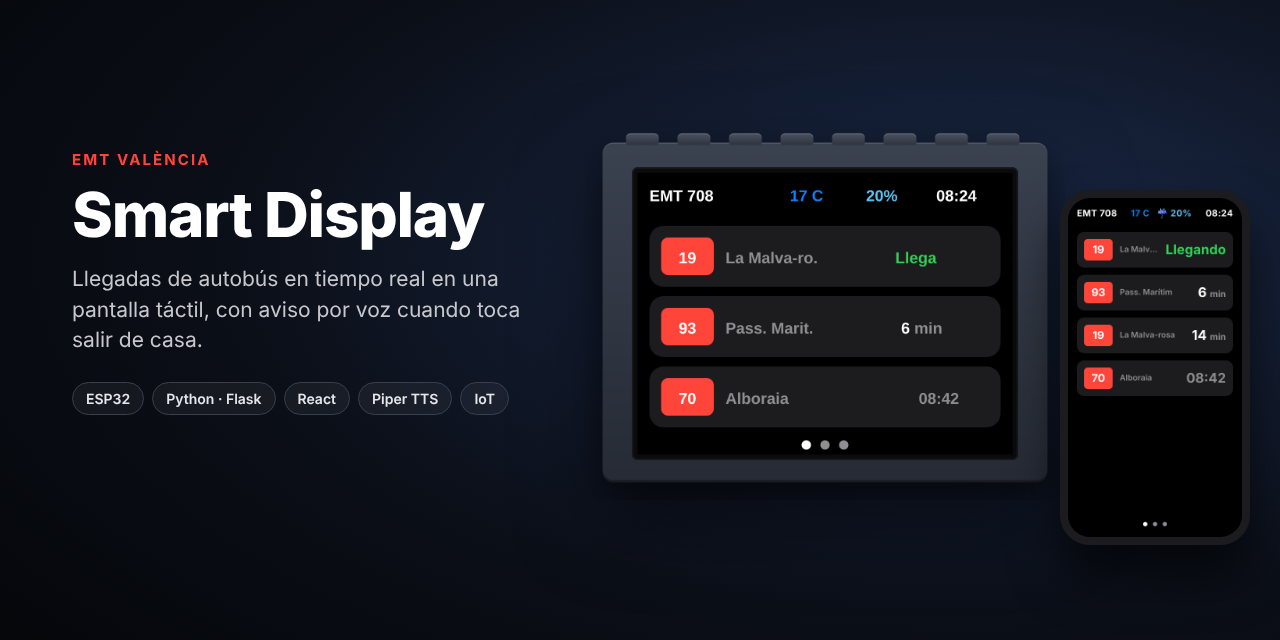
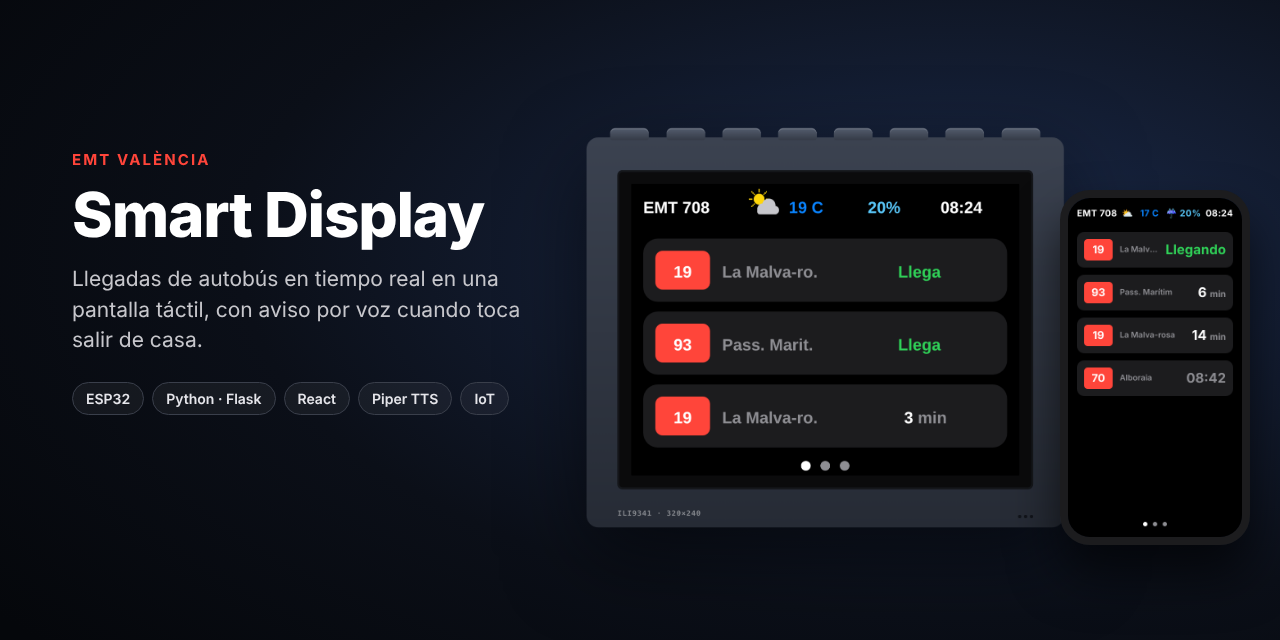
Iconos del tiempo en la pantalla, la web y el gemelo
- Servidor: traduce el código WMO de Open-Meteo a 7 iconos (despejado,
  parcial, nublado, niebla, lluvia, nieve, tormenta) y si es de noche
- Firmware: iconos de 20 px dibujados con primitivas GFX en la cabecera
- Web: emoji equivalente; gemelo: misma geometría que el firmware y
  selector de tiempo en el modo demo
- Imágenes del README capturadas del gemelo

Changed region(s): [[0.4375, 0.1875, 0.8438, 0.8438], [0.875, 0.3125, 0.9375, 0.3438]]

diff --git a/server/simulador/sim.js b/server/simulador/sim.js
@@ -44,6 +44,7 @@
   const C = {
     BG: '#000000', CARD: '#1c1c1e', DIM: '#8e8e93', ACCENT: '#0a84ff', RED: '#ff453a',
     GREEN: '#30d158', ORANGE: '#ff9f0a', RAIN: '#5ac8fa', WHITE: '#ffffff', BLACK: '#000000',
+    SUN: '#ffd60a', CLOUD: '#c7c7cc', CLOUD_DARK: '#8e8e93', MOON: '#e5e5ea',
   };
   const FONT = 'bold 13.5px "Liberation Sans", "Helvetica Neue", Arial, Helvetica, sans-serif';
 
@@ -97,6 +98,58 @@
     }
     width(s) { const g = this.g; g.save(); g.font = FONT; const w = g.measureText(s).width; g.restore(); return w; }
 
+    // drawLine de 1 px como Adafruit GFX (Bresenham)
+    line(x0, y0, x1, y1, c) {
+      const dx = Math.abs(x1 - x0), sx = x0 < x1 ? 1 : -1, dy = -Math.abs(y1 - y0), sy = y0 < y1 ? 1 : -1;
+      let err = dx + dy;
+      for (;;) { this.rect(x0, y0, 1, 1, c); if (x0 === x1 && y0 === y1) break; const e2 = 2 * err; if (e2 >= dy) { err += dy; x0 += sx; } if (e2 <= dx) { err += dx; y0 += sy; } }
+    }
+    tri(x0, y0, x1, y1, x2, y2, c) {
+      const g = this.g, k = this.k; g.fillStyle = c; g.beginPath();
+      g.moveTo(x0 * k, y0 * k); g.lineTo(x1 * k, y1 * k); g.lineTo(x2 * k, y2 * k); g.closePath(); g.fill();
+    }
+    // GFX fillCircle(x, y, r) ocupa de x-r a x+r inclusive
+    disc(x, y, r, c) { this.circle(x + 0.5, y + 0.5, r + 0.5, c); }
+
+    // ---- iconos del tiempo (20x20 en torno a x=110, y=17)
+    sol(x, y, r, c = C.SUN) {
+      this.disc(x, y, r, c);
+      const a = r + 2, b = r + 4, d = Math.round(a * 0.7), e = Math.round(b * 0.7);
+      for (const [p, q] of [[1, 0], [0, 1], [-1, 0], [0, -1]]) this.line(x + p * a, y + q * a, x + p * b, y + q * b, c);
+      for (const [p, q] of [[1, 1], [-1, 1], [-1, -1], [1, -1]]) this.line(x + p * d, y + q * d, x + p * e, y + q * e, c);
+    }
+    luna(x, y, r) { this.disc(x, y, r, C.MOON); this.disc(x + 3, y - 3, r - 1, C.BG); }
+    nube(x, y, c) {
+      this.disc(x - 4, y, 4, c); this.disc(x + 1, y - 3, 5, c); this.disc(x + 6, y + 1, 3, c);
+      this.rrect(x - 8, y, 17, 5, 2, c);
+    }
+    drawIconoClima(icono, noche) {
+      const X = 110, Y = 17;
+      this.rect(98, 2, 26, 31, C.BG);
+      switch (icono) {
+        case 'despejado': noche ? this.luna(X, Y, 6) : this.sol(X, Y, 5); break;
+        case 'parcial': noche ? this.luna(X - 5, Y - 5, 5) : this.sol(X - 5, Y - 5, 4); this.nube(X + 2, Y + 3, C.CLOUD); break;
+        case 'nublado': this.nube(X - 3, Y - 2, C.CLOUD_DARK); this.nube(X + 2, Y + 3, C.CLOUD); break;
+        case 'niebla':
+          for (const [dx, dy] of [[-9, -5], [-6, 0], [-9, 5]]) { this.rect(X + dx, Y + dy, 18, 2, C.CLOUD); }
+          break;
+        case 'lluvia':
+          this.nube(X, Y - 3, C.CLOUD);
+          for (const dx of [-6, -1, 4]) { this.line(X + dx, Y + 5, X + dx - 2, Y + 9, C.RAIN); this.line(X + dx + 1, Y + 5, X + dx - 1, Y + 9, C.RAIN); }
+          break;
+        case 'nieve':
+          this.nube(X, Y - 3, C.CLOUD);
+          for (const [dx, dy] of [[-6, 7], [0, 9], [6, 7]]) this.disc(X + dx, Y + dy, 1, C.WHITE);
+          break;
+        case 'tormenta':
+          this.nube(X, Y - 4, C.CLOUD_DARK);
+          this.tri(X + 1, Y + 1, X - 4, Y + 7, X, Y + 6, C.SUN);
+          this.tri(X, Y + 5, X + 4, Y + 5, X - 2, Y + 12, C.SUN);
+          break;
+        default: break;
+      }
+    }
+
     mensajeCentral(t, c) { this.rect(0, 0, 320, 240, C.BG); this.text(10, 110, t, c); }
     avisoActivo() { return this.avisoHasta !== 0 && Clock.now() < this.avisoHasta; }
 
@@ -108,7 +161,7 @@
         this.text(10, 24, 'EMT ' + this.paradas[this.paradaActual], C.WHITE);
         this.drawClock();
       }
-      this.rect(120, 0, 130, 35, C.BG); this.text(130, 24, 'Sin WiFi', C.RED);
+      this.rect(98, 0, 152, 35, C.BG); this.text(130, 24, 'Sin WiFi', C.RED);
     }
     drawLoading() {
       if (this.avisoActivo()) return;
@@ -129,6 +182,7 @@
       this.text(10, 24, 'EMT ' + parseInt(doc.parada, 10), C.WHITE);
       this.text(130, 24, String(doc.clima ?? ''), C.ACCENT);
       this.text(195, 24, String(doc.prob_lluvia ?? ''), C.RAIN);
+      this.drawIconoClima(String(doc.icono_clima || ''), !!doc.noche);
       if (doc.obsoleto) this.circle(244, 18, 3, C.ORANGE);
     }
     drawBody(doc) {
@@ -331,7 +385,7 @@
     cache: {},               // parada -> {ts, llegadas, avisos}
     rule: { parada: 708, andando: 5, activo: true },
     avisos: [], anunciados: {}, lastRuleCheck: 0,
-    clima: { temp: '17 C', lluvia: '20%' },
+    clima: { temp: '17 C', lluvia: '20%', icono: 'parcial', noche: false },
 
     // Lo que contestaría el SAE: lista de {linea, destino, minutos(texto)}
     sae(parada, now) {
@@ -411,12 +465,12 @@
       try {
         const d = this.obtener(id, now);
         return { code: 200, json: {
-          success: true, parada: id, clima: this.clima.temp, prob_lluvia: this.clima.lluvia,
+          success: true, parada: id, clima: this.clima.temp, prob_lluvia: this.clima.lluvia, icono_clima: this.clima.icono, noche: this.clima.noche,
           llegadas: d.llegadas, avisos: d.avisos, servidor_ts: Math.floor(now / 1000),
           edad_dato_s: Math.floor((now - d.ts) / 1000), obsoleto: d.error !== null,
         } };
       } catch {
-        return { code: 502, json: { success: false, parada: id, error: 'EMT no disponible', clima: this.clima.temp, prob_lluvia: this.clima.lluvia, llegadas: [] } };
+        return { code: 502, json: { success: false, parada: id, error: 'EMT no disponible', clima: this.clima.temp, prob_lluvia: this.clima.lluvia, icono_clima: this.clima.icono, noche: this.clima.noche, llegadas: [] } };
       }
     },
 
@@ -548,7 +602,7 @@
     const p = Demo.rule.parada; const [linea, destino] = RED_DEMO[p]?.[0] || [];
     if (!linea) return;
     Demo.extra.push({ parada: p, linea, destino, t: Clock.now() + (Demo.rule.andando * 60 + 50) * 1000 });
-    Demo.cache = {}; Demo.lastRuleCheck = 0;
+    Demo.cache = {}; Demo.lastRuleCheck = 0; device.lastBusUpdate = 0;
     log(`Escenario: la ${linea} se acerca a la parada ${p}; toca salir de casa`);
   });
   $('scReset').addEventListener('click', () => {
@@ -557,6 +611,16 @@
     for (const b of document.querySelectorAll('[aria-pressed]')) toggleBtn(b, false);
     log('Escenarios restablecidos'); device.lastBusUpdate = 0;
   });
+
+  // Tiempo meteorológico (demo)
+  const TEMPS = { despejado: ['24 C', '0%'], parcial: ['19 C', '20%'], nublado: ['16 C', '40%'], niebla: ['12 C', '10%'], lluvia: ['14 C', '90%'], nieve: ['1 C', '80%'], tormenta: ['21 C', '95%'] };
+  function aplicarClima() {
+    const ic = $('wxIcon').value; Demo.clima = { temp: TEMPS[ic][0], lluvia: TEMPS[ic][1], icono: ic, noche: $('wxNight').checked };
+    Demo.cache = {}; device.lastBusUpdate = 0;
+    log(`Escenario: tiempo ${ic}${Demo.clima.noche ? ' (noche)' : ''}`);
+  }
+  $('wxIcon').addEventListener('change', aplicarClima);
+  $('wxNight').addEventListener('change', aplicarClima);
 
   // Regla de aviso
   $('ruleStop').addEventListener('change', (e) => { Demo.rule.parada = Number(e.target.value); Demo.anunciados = {}; });

diff --git a/frontend/src/DashboardEMT.jsx b/frontend/src/DashboardEMT.jsx
@@ -3,6 +3,17 @@ import React, { useState, useEffect, useRef } from 'react';
 // Vacío = mismo servidor que sirve la web (Flask en la Radxa). Sin CORS ni contenido mixto.
 const API_BASE = '';
 
+// Icono del tiempo que manda el servidor (código WMO de Open-Meteo ya traducido)
+const ICONOS_CLIMA = {
+  despejado: ['☀', '🌙', 'Despejado'],
+  parcial: ['⛅', '☁', 'Intervalos nubosos'],
+  nublado: ['☁', '☁', 'Nublado'],
+  niebla: ['🌫', '🌫', 'Niebla'],
+  lluvia: ['🌧', '🌧', 'Lluvia'],
+  nieve: ['🌨', '🌨', 'Nieve'],
+  tormenta: ['⛈', '⛈', 'Tormenta'],
+};
+
 export default function DashboardEMT() {
   const [paradas, setParadas] = useState([]);
   const [paradaIdx, setParadaIdx] = useState(0);
@@ -86,8 +97,13 @@ export default function DashboardEMT() {
           )}
         </span>
         <div className="flex space-x-4">
+          {ICONOS_CLIMA[datos.icono_clima] && (
+            <span role="img" aria-label={ICONOS_CLIMA[datos.icono_clima][2]} title={ICONOS_CLIMA[datos.icono_clima][2]}>
+              {ICONOS_CLIMA[datos.icono_clima][datos.noche ? 1 : 0]}
+            </span>
+          )}
           <span className="text-[#0a84ff]">{datos.clima}</span>
-          <span className="text-[#5ac8fa]">☔ {datos.prob_lluvia}</span>
+          <span className="text-[#5ac8fa]" title="Probabilidad de lluvia hoy">☔ {datos.prob_lluvia}</span>
         </div>
         <span>{hora}</span>
       </div>

diff --git a/server/simulador/index.html b/server/simulador/index.html
@@ -57,7 +57,7 @@
     </section>
 
     <section>
-      <h2>Tiempo</h2>
+      <h2>Reloj</h2>
       <div class="clockrow">
         <output id="simClock" aria-live="off">--:--:--</output>
         <div class="seg demo-only" role="radiogroup" aria-label="Velocidad">
@@ -83,6 +83,23 @@
         <button class="btn primary" id="scAviso" type="button">Provocar aviso de salida<small>Un bus justo a tiempo</small></button>
         <button class="btn quiet" id="scReset" type="button">Restablecer<small>Todo normal</small></button>
       </div>
+    </section>
+
+    <section class="demo-only">
+      <h2>Tiempo</h2>
+      <div class="fields">
+        <label for="wxIcon">Cielo<select id="wxIcon">
+          <option value="despejado">Despejado</option>
+          <option value="parcial" selected>Intervalos nubosos</option>
+          <option value="nublado">Nublado</option>
+          <option value="niebla">Niebla</option>
+          <option value="lluvia">Lluvia</option>
+          <option value="nieve">Nieve</option>
+          <option value="tormenta">Tormenta</option>
+        </select></label>
+        <label class="check" for="wxNight"><input type="checkbox" id="wxNight">De noche</label>
+      </div>
+      <p class="hint">El servidor traduce el código del tiempo de Open-Meteo a uno de estos siete iconos; de noche, el sol pasa a luna.</p>
     </section>
 
     <section class="demo-only">

diff --git a/server/app.py b/server/app.py
@@ -73,7 +73,7 @@ session.headers.update(HEADERS)
 
 _lock = threading.Lock()
 _cache_paradas = {}   # stop_id -> {"ts": epoch, "llegadas": [...]}
-_cache_clima = {"ts": 0, "data": {"temp": "-- C", "lluvia": "--%"}}
+_cache_clima = {"ts": 0, "data": {"temp": "-- C", "lluvia": "--%", "icono": "", "noche": False}}
 
 
 # --- SAE (EMT) ---------------------------------------------------------------
@@ -239,6 +239,29 @@ def _redondear(x):
     return math.floor(float(x) + 0.5)
 
 
+def icono_wmo(codigo):
+    """Código WMO de Open-Meteo -> icono que dibuja la pantalla."""
+    try:
+        c = int(codigo)
+    except (TypeError, ValueError):
+        return ""
+    if c == 0:
+        return "despejado"
+    if c in (1, 2):
+        return "parcial"
+    if c == 3:
+        return "nublado"
+    if c in (45, 48):
+        return "niebla"
+    if 51 <= c <= 67 or 80 <= c <= 82:
+        return "lluvia"
+    if 71 <= c <= 77 or c in (85, 86):
+        return "nieve"
+    if c in (95, 96, 99):
+        return "tormenta"
+    return ""
+
+
 def obtener_clima():
     ahora = time.time()
     if ahora - _cache_clima["ts"] < WEATHER_CACHE_TTL:
@@ -248,9 +271,12 @@ def obtener_clima():
     _cache_clima["ts"] = ahora - WEATHER_CACHE_TTL + 60
     try:
         datos = session.get(WEATHER_URL, timeout=5).json()
+        actual = datos["current_weather"]
         data = {
-            "temp": f"{_redondear(datos['current_weather']['temperature'])} C",
+            "temp": f"{_redondear(actual['temperature'])} C",
             "lluvia": f"{int(datos['daily']['precipitation_probability_max'][0])}%",
+            "icono": icono_wmo(actual.get("weathercode")),
+            "noche": actual.get("is_day") == 0,
         }
         _cache_clima.update(ts=ahora, data=data)
     except Exception:
@@ -275,6 +301,8 @@ def get_tiempos_parada(stop_id):
             "error": "EMT no disponible",
             "clima": clima["temp"],
             "prob_lluvia": clima["lluvia"],
+            "icono_clima": clima.get("icono", ""),
+            "noche": clima.get("noche", False),
             "llegadas": [],
         }), 502
 
@@ -284,6 +312,8 @@ def get_tiempos_parada(stop_id):
         "parada": stop_id,
         "clima": clima["temp"],
         "prob_lluvia": clima["lluvia"],
+        "icono_clima": clima.get("icono", ""),   # despejado, parcial, nublado, niebla, lluvia, nieve, tormenta
+        "noche": clima.get("noche", False),
         "llegadas": llegadas,
         "avisos": mensajes,
         "servidor_ts": int(ahora),          # para sincronizar la cuenta atrás

diff --git a/server/tests/test_clima.py b/server/tests/test_clima.py
@@ -1,0 +1,40 @@
+"""Iconos del tiempo a partir de Open-Meteo."""
+import json
+import sys
+from pathlib import Path
+from unittest import mock
+
+sys.path.insert(0, str(Path(__file__).resolve().parents[1]))
+import app  # noqa: E402
+
+FIX = Path(__file__).parent / "fixtures"
+
+
+def test_codigos_wmo():
+    casos = {0: "despejado", 1: "parcial", 2: "parcial", 3: "nublado", 45: "niebla", 48: "niebla",
+             51: "lluvia", 61: "lluvia", 65: "lluvia", 80: "lluvia", 82: "lluvia",
+             71: "nieve", 77: "nieve", 85: "nieve", 95: "tormenta", 99: "tormenta",
+             4: "", None: "", "x": ""}
+    for codigo, icono in casos.items():
+        assert app.icono_wmo(codigo) == icono, codigo
+
+
+def test_respuesta_real_de_open_meteo():
+    """Respuesta real del 31/10/2026 a las 17:00: intervalos nubosos, de día, 18,5 C."""
+    datos = json.loads((FIX / "openmeteo_2026-10-31_1700.json").read_text())
+    r = mock.Mock(); r.json = lambda: datos
+    app._cache_clima["ts"] = 0
+    with mock.patch.object(app.session, "get", return_value=r):
+        clima = app.obtener_clima()
+    assert clima == {"temp": "19 C", "lluvia": "75%", "icono": "parcial", "noche": False}
+
+
+def test_api_incluye_icono():
+    app._cache_paradas.clear()
+    xml = (FIX / "sae_708.xml").read_bytes()
+    r = mock.Mock(content=xml); r.raise_for_status = lambda: None
+    with mock.patch.object(app.session, "get", return_value=r), \
+         mock.patch.object(app, "obtener_clima", return_value={"temp": "8 C", "lluvia": "0%", "icono": "despejado", "noche": True}):
+        app.PARADAS_PERMITIDAS.add(708)
+        j = app.app.test_client().get("/api/parada/708").json
+    assert j["icono_clima"] == "despejado" and j["noche"] is True

diff --git a/README.md b/README.md
@@ -19,10 +19,11 @@ El sistema tiene tres piezas: un **ESP32** con pantalla de 2,8" montado en una c
 **Lo más destacable**
 
 - **La misma fuente que la app oficial.** Consulta directamente el SAE de la EMT (el sistema de seguimiento por GPS de los autobuses), sin librerías intermedias.
+- **El tiempo de un vistazo.** Icono del cielo (sol, nubes, lluvia, tormenta, niebla, nieve; luna de noche), temperatura y probabilidad de lluvia de [Open-Meteo](https://open-meteo.com/).
 - **Distingue lo real de lo previsto.** Las estimaciones en tiempo real se muestran en blanco; las horas teóricas, en gris; "Pròxim" se convierte en *Llegando* y las líneas desviadas se marcan en naranja.
 - **Aviso de salida por voz.** Calcula `llegada del bus − minutos andando` y avisa en el último minuto, con voz neuronal offline (Piper TTS).
 - **Robusto.** Caché compartida de 15 s; si la EMT no responde, muestra el último dato bueno y lo marca.
-- **Seguro por diseño.** Lista de paradas permitidas, sin CORS, servicio aislado con systemd y 29 tests automáticos (10 de seguridad). Ver [docs/SEGURIDAD.md](docs/SEGURIDAD.md).
+- **Seguro por diseño.** Lista de paradas permitidas, sin CORS, servicio aislado con systemd y 32 tests automáticos (10 de seguridad). Ver [docs/SEGURIDAD.md](docs/SEGURIDAD.md).
 
 ---
 
@@ -37,7 +38,7 @@ El sistema tiene tres piezas: un **ESP32** con pantalla de 2,8" montado en una c
 |:---:|:---:|
 | <img src="docs/img/web-parada-1.png" alt="Web móvil con llegadas" width="300"> | <img src="docs/img/web-sin-servicio.png" alt="Web móvil sin servicio" width="300"> |
 
-> Las capturas de la web son del servidor real con datos de demostración. La pantalla del dispositivo es una reproducción fiel del firmware (mismas coordenadas, colores y textos).
+> Las capturas de la web son del servidor real con datos de demostración. La pantalla del dispositivo está capturada del [gemelo digital](#gemelo-digital), que la dibuja con la lógica del firmware.
 
 ---
 
@@ -48,7 +49,7 @@ El sistema tiene tres piezas: un **ESP32** con pantalla de 2,8" montado en una c
 Un simulador en el navegador para probar el sistema **sin montar el hardware**. La pantalla se dibuja con el mismo código que el firmware, traducido línea a línea: coordenadas, colores, textos, refrescos cada 20 s, banner de 60 s y validaciones. El táctil funciona haciendo clic a la izquierda o a la derecha.
 
 - **Modo real.** Abre `http://<ip-del-servidor>:5000/simulador/` y usa tu servidor y los datos de la EMT, como el ESP32.
-- **Modo demo.** Servidor simulado (misma lógica que `app.py` y `avisos.py`) con el tiempo acelerable (×10, ×60) y escenarios a un clic: bus llegando, sin servicio, línea desviada, EMT caída, servidor apagado, WiFi caído y aviso de salida con voz.
+- **Modo demo.** Servidor simulado (misma lógica que `app.py` y `avisos.py`) con el tiempo acelerable (×10, ×60) y escenarios a un clic: bus llegando, sin servicio, línea desviada, EMT caída, servidor apagado, WiFi caído, aviso de salida con voz y los siete iconos del tiempo, de día y de noche.
 
 **Lo que encontró antes de montar nada**, ya corregido en el firmware y el servidor:
 
@@ -210,7 +211,7 @@ Abre `http://<ip-del-servidor>:5000` en el móvil y añádela a la pantalla de i
 
 | Método | Ruta | Descripción |
 |---|---|---|
-| GET | `/api/parada/<id>` | Llegadas normalizadas, clima y estado del dato (`obsoleto`, `edad_dato_s`). 404 si la parada no está configurada |
+| GET | `/api/parada/<id>` | Llegadas normalizadas, clima con icono y estado del dato (`obsoleto`, `edad_dato_s`). 404 si la parada no está configurada |
 | GET | `/api/config` | Paradas configuradas |
 | GET | `/api/aviso` | Aviso de salida vigente, o 204 |
 | GET | `/api/audio/<id>.wav` | Audio del aviso (PCM 16 bits mono) |
@@ -226,6 +227,8 @@ Abre `http://<ip-del-servidor>:5000` en el móvil y añádela a la pantalla de i
   "parada": 708,
   "clima": "17 C",
   "prob_lluvia": "20%",
+  "icono_clima": "parcial",
+  "noche": false,
   "llegadas": [
     {"linea": "19", "destino": "La Malva-rosa", "minutos": 37, "llegando": false,
      "hora": null, "tiempo_real": true, "texto": "37", "llega_a": 1793409591},
@@ -252,6 +255,7 @@ cd server && pip install pytest && python -m pytest -v tests
 
 - **Parser del SAE:** respuestas reales de la EMT ("Pròxim", horas previstas, líneas desviadas, una parada con 28 buses) y cruce de medianoche.
 - **Avisos:** franjas, silencio nocturno, no repetir el mismo bus, filtro de líneas y WAV válido.
+- **Tiempo:** traducción de los códigos WMO a iconos, con una respuesta real de Open-Meteo.
 - **Gemelo digital:** se sirve desde el servidor y cumple su política de seguridad (sin código en línea).
 - **Seguridad:** paradas no permitidas, CORS, cabeceras, errores sin detalles internos, IDs de audio, rutas de API y bomba XML.
 
@@ -265,7 +269,7 @@ La [CI](.github/workflows/ci.yml) ejecuta los tests, compila la web y **compila 
 │   ├── avisos.py        Motor de avisos de salida y voz
 │   ├── config.py        Tus paradas y avisos
 │   ├── simulador/       Gemelo digital (se sirve en /simulador/)
-│   └── tests/           29 tests + respuestas reales de la EMT
+│   └── tests/           32 tests + respuestas reales de la EMT y Open-Meteo
 ├── firmware/
 │   └── dashboard_emt/   Sketch del ESP32 (pantalla, táctil, audio I2S)
 ├── frontend/            Web React + Tailwind (Vite)
